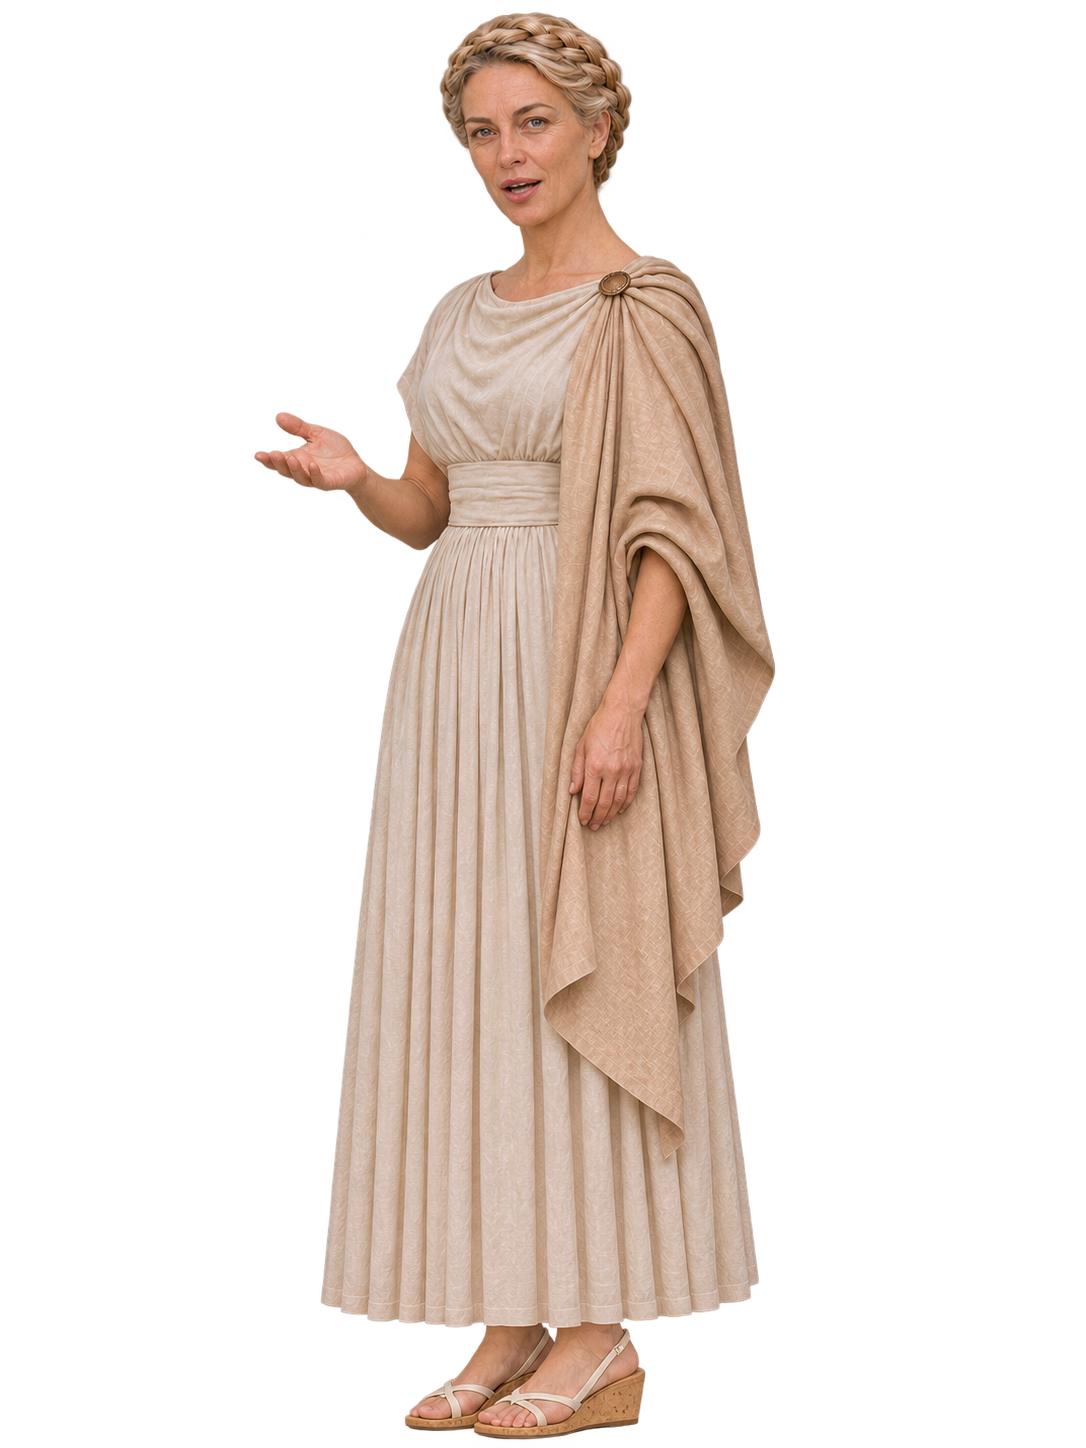
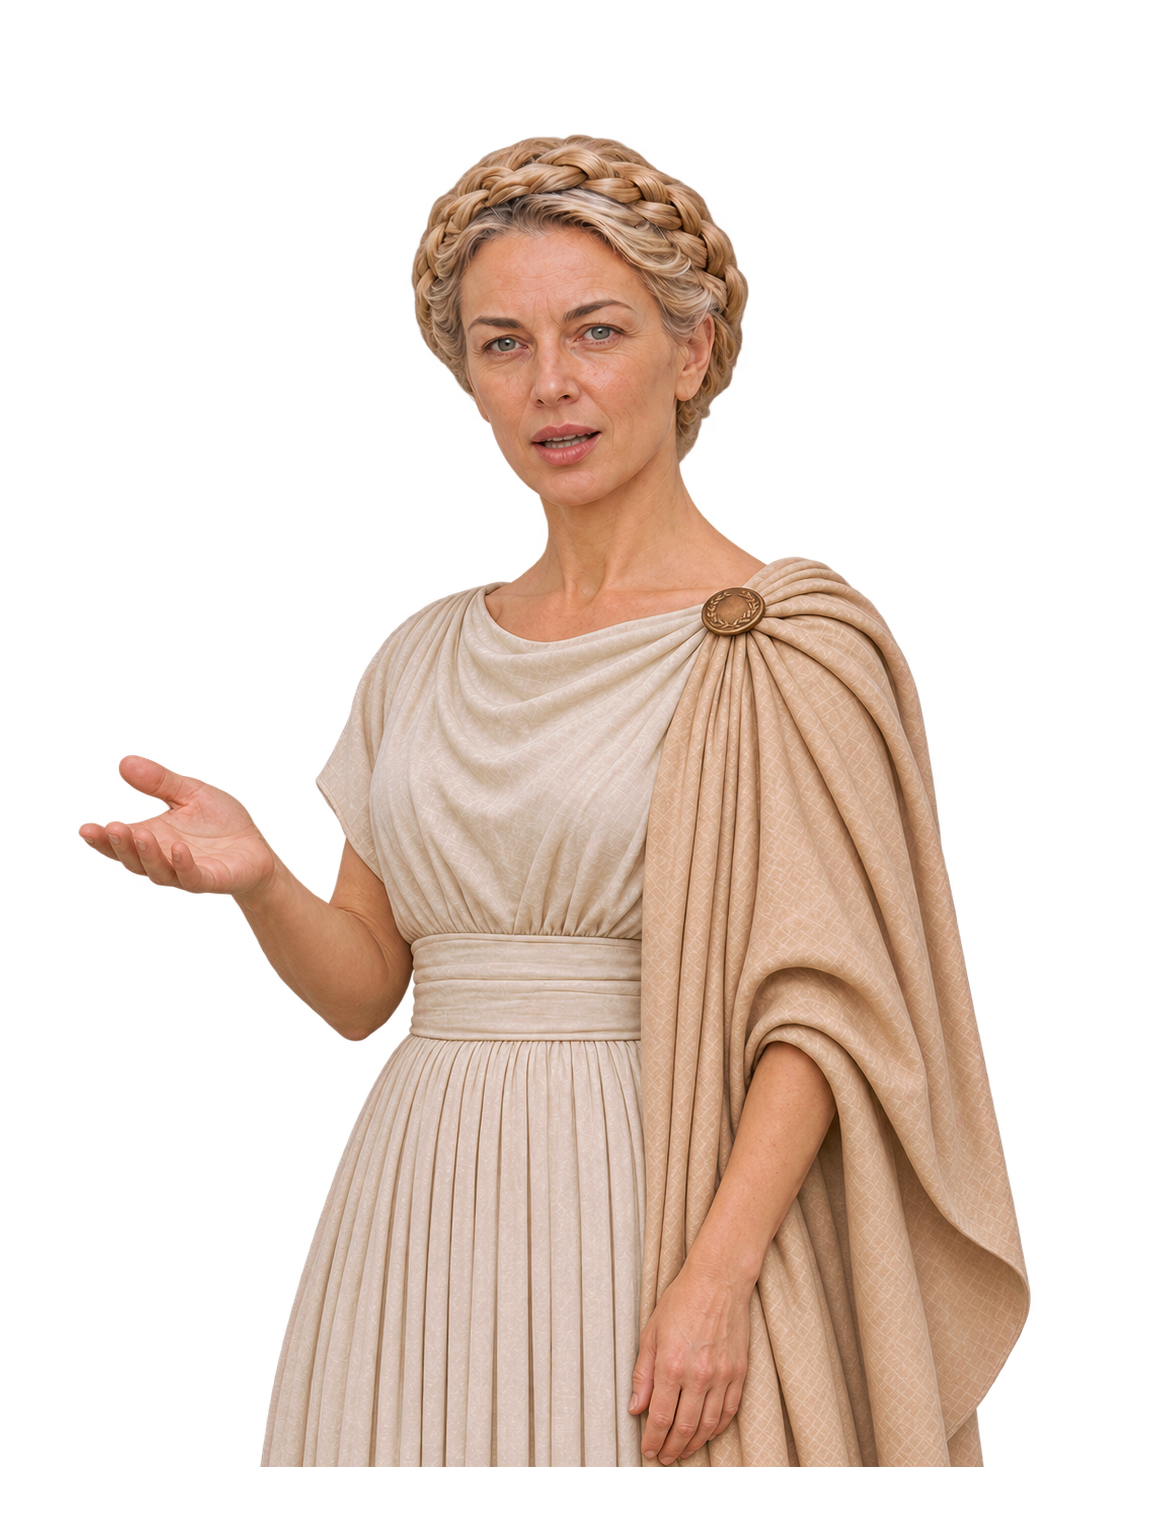
claire update

diff --git a/SPRITE_PRODUCTION.md b/SPRITE_PRODUCTION.md
@@ -107,9 +107,10 @@ define vg_<key> = Character("Name", color="#hex", show_portrait="<key> listening
 
 New close-framed masters use `vg_dialogue_portrait`. Do not add the character to
 the `vg_fullbody_dialogue_portrait` branch; that branch is a compatibility rule
-for the existing Claire and Yara full-body source files. Maddie's dialogue
-portraits use the close crop. Her optional head-to-toe variants live in
-`game/images/maddie/fullbody/`, with `_fullbody` filenames.
+for Yara's existing full-body source files. Claire and Maddie use the close
+dialogue crop. Claire's original full-body references and Maddie's head-to-toe
+variants live in `game/images/claire/fullbody/` and
+`game/images/maddie/fullbody/`, respectively, with `_fullbody` filenames.
 
 Add complete and incomplete finale choices to `vg_finale_portraits`, and attach
 specific route portraits with `portrait=` and `warm_portrait=` when the neutral
